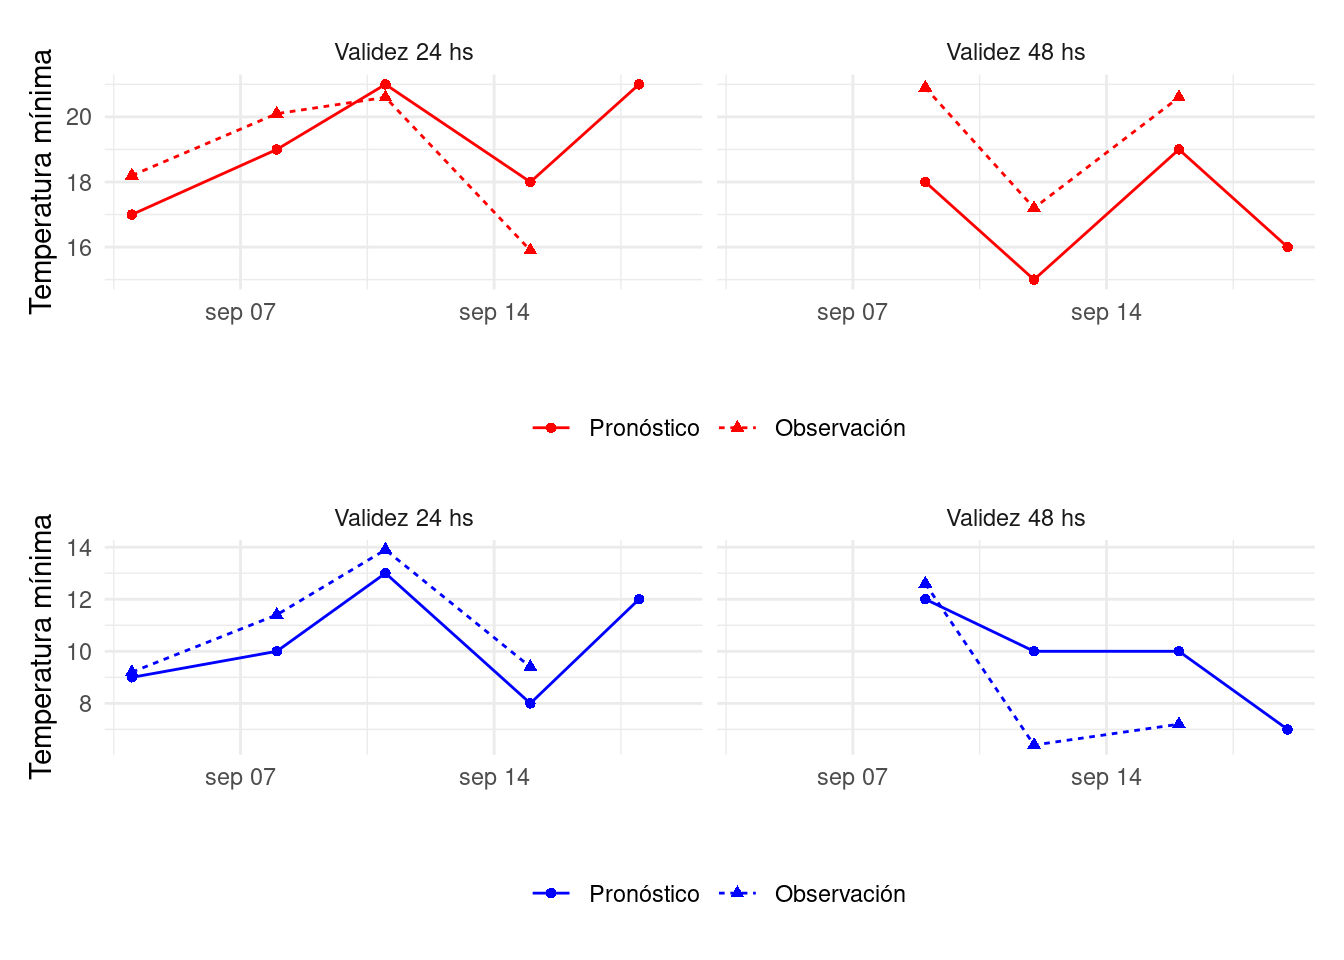
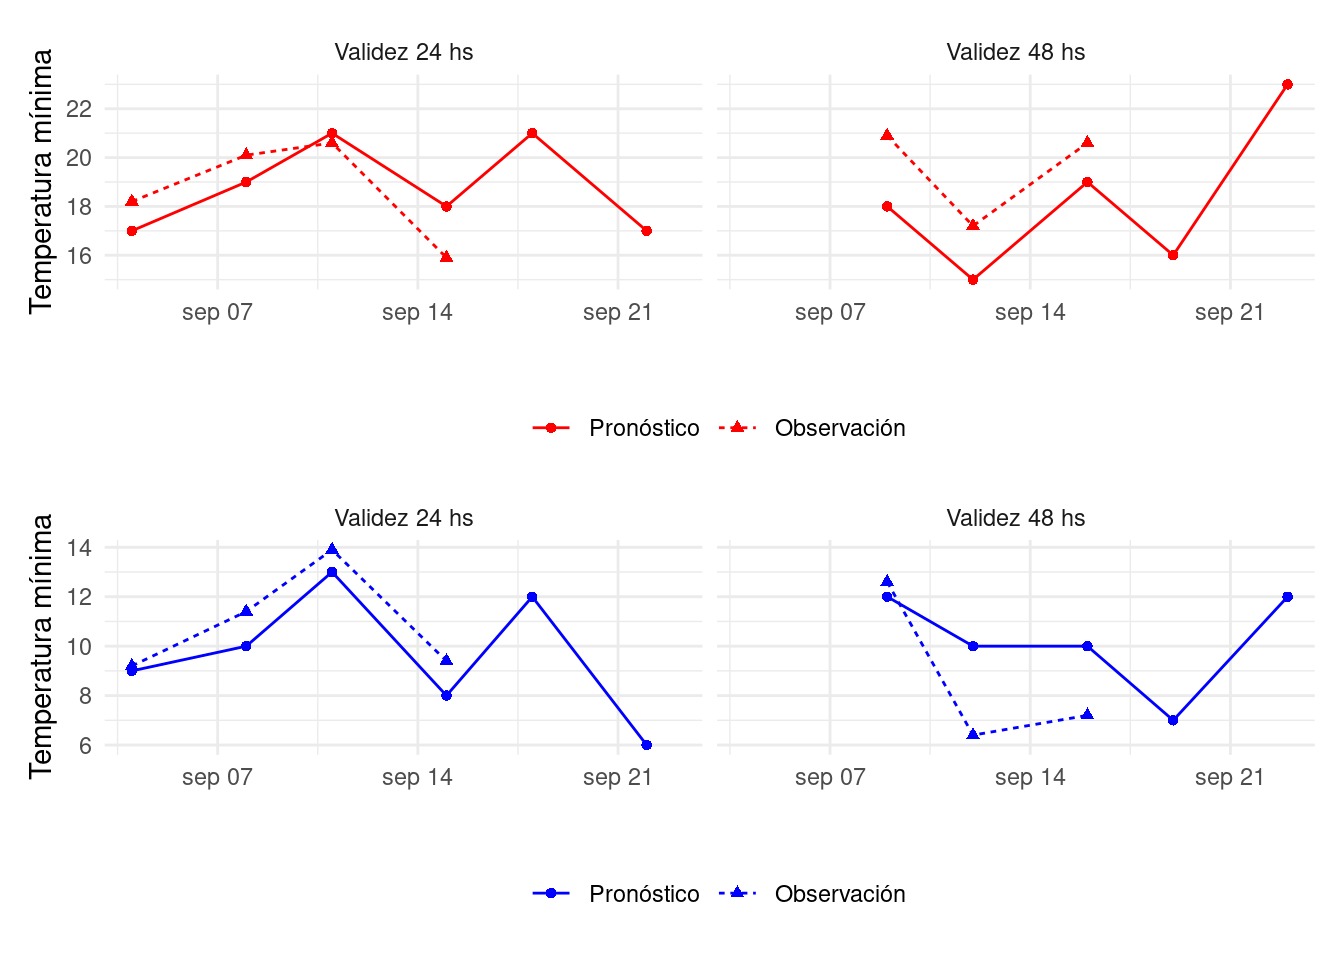
Build

diff --git a/docs/index.html b/docs/index.html
@@ -307,8 +307,8 @@ $(document).ready(function () {
 </div>
 
 
-<div id="análisis-del-día-17-de-septiembre-de-2020" class="section level2">
-<h2>Análisis del día 17 de septiembre de 2020</h2>
+<div id="análisis-del-día-21-de-septiembre-de-2020" class="section level2">
+<h2>Análisis del día 21 de septiembre de 2020</h2>
 <div id="ciudad-de-buenos-aires" class="section level3">
 <h3>Ciudad de Buenos Aires</h3>
 <table class="table table-responsive" style="margin-left: auto; margin-right: auto;">
@@ -339,48 +339,48 @@ Viento
 <tbody>
 <tr>
 <td style="text-align:left;">
-18/09/2020
+22/09/2020
 </td>
 <td style="text-align:left;max-width: 22em; ">
-Se espera buen tiempo con cielo despejado durante el día con precia de nubes altas durante la noche. Luego del pasaje del sistema frontal en horas previas dominará la presencia de aire seco y fresco y viento soplando del sector suodeste.
+Se espera un día fresco y parcialmente nublado con viento moderado predominante del sector NE. Se espera un leve aumento de la nubosidad por la tarde noche. Probabilidad de neblinas durante las primeras horas del día
 </td>
 <td style="text-align:center;color: red !important;">
-21 °
+17 °
+</td>
+<td style="text-align:center;color: blue !important;">
+6 °
+</td>
+<td style="text-align:center;max-width: 7em; ">
+Algo nublado a Parcialmente nublado
+</td>
+<td style="text-align:center;">
+NE
+</td>
+<td style="text-align:center;">
+<img src="img/parcialmente-nublado.png" width="60" />
+</td>
+</tr>
+<tr>
+<td style="text-align:left;">
+23/09/2020
+</td>
+<td style="text-align:left;max-width: 22em; ">
+Se espera buen tiempo con cielos algo nublados a despejados. El viento se mantendrá del sector norte generando un aumento de la temperatura y humedad respecto del día anterior.
+</td>
+<td style="text-align:center;color: red !important;">
+23 °
 </td>
 <td style="text-align:center;color: blue !important;">
 12 °
 </td>
 <td style="text-align:center;max-width: 7em; ">
-Algo nublado a Despejado
+Algo Nublado
 </td>
 <td style="text-align:center;">
-SO
+N
 </td>
 <td style="text-align:center;">
 <img src="img/algo-nublado.png" width="60" />
-</td>
-</tr>
-<tr>
-<td style="text-align:left;">
-19/09/2020
-</td>
-<td style="text-align:left;max-width: 22em; ">
-Se espera un día fresco y soleado. El viento se mantendrá del sector S generando una disminución de las temperaturas respecto del dia anterior.
-</td>
-<td style="text-align:center;color: red !important;">
-16 °
-</td>
-<td style="text-align:center;color: blue !important;">
-7 °
-</td>
-<td style="text-align:center;max-width: 7em; ">
-Despejado
-</td>
-<td style="text-align:center;">
-S-SO
-</td>
-<td style="text-align:center;">
-<img src="img/despejado.png" width="60" />
 </td>
 </tr>
 </tbody>
@@ -416,13 +416,36 @@ Viento
 <tbody>
 <tr>
 <td style="text-align:left;">
-18/09/2020
+22/09/2020
 </td>
 <td style="text-align:left;max-width: 22em; ">
-Se espera un día con cielo despejado y viento leve del sector norte-noroeste. Importante aplitud térmica con mínima de 5 y máxima de 29 grados.
+Se espera un día con cielo despejado y viento del sector E. La temperatura mínima será muy fría y la máxima podría alcanzar los 26°C
 </td>
 <td style="text-align:center;color: red !important;">
-29 °
+26 °
+</td>
+<td style="text-align:center;color: blue !important;">
+2 °
+</td>
+<td style="text-align:center;max-width: 7em; ">
+Despejado
+</td>
+<td style="text-align:center;">
+E
+</td>
+<td style="text-align:center;">
+<img src="img/despejado.png" width="60" />
+</td>
+</tr>
+<tr>
+<td style="text-align:left;">
+23/09/2020
+</td>
+<td style="text-align:left;max-width: 22em; ">
+Se espera buen tiempo con cielo despejado durante el día y con algo de nubosidad hacia la tarde y noche. El viento predominante será del sector NE durante la madrugada rotando al E durante el día.
+</td>
+<td style="text-align:center;color: red !important;">
+30 °
 </td>
 <td style="text-align:center;color: blue !important;">
 5 °
@@ -437,18 +460,72 @@ NE
 <img src="img/despejado.png" width="60" />
 </td>
 </tr>
+</tbody>
+</table>
+</div>
+<div id="córdoba-aero" class="section level3">
+<h3>Córdoba Aero</h3>
+<table class="table table-responsive" style="margin-left: auto; margin-right: auto;">
+<thead>
+<tr>
+<th style="text-align:left;">
+Fecha
+</th>
+<th style="text-align:left;">
+Pronóstico
+</th>
+<th style="text-align:center;">
+T máxima
+</th>
+<th style="text-align:center;">
+T mínima
+</th>
+<th style="text-align:center;">
+Nubosidad
+</th>
+<th style="text-align:center;">
+Viento
+</th>
+<th style="text-align:center;">
+</th>
+</tr>
+</thead>
+<tbody>
 <tr>
 <td style="text-align:left;">
-19/09/2020
+22/09/2020
 </td>
 <td style="text-align:left;max-width: 22em; ">
-Se espera un día con cielo despejado durante la mañana y viento leve del sector norte-noroeste generando un aumento en la humedad. Por la tarde se espera un aumento de la nubosidad generando una disminución de la temperatura máxima respecto del día anterior.
+Se espera buen tiempo con cielos algo nublados a despejados durante el día. Vientos leves a moderados predominantes del NE.
 </td>
 <td style="text-align:center;color: red !important;">
-23 °
+26 °
 </td>
 <td style="text-align:center;color: blue !important;">
-6 °
+5 °
+</td>
+<td style="text-align:center;max-width: 7em; ">
+Algo nublado
+</td>
+<td style="text-align:center;">
+NE
+</td>
+<td style="text-align:center;">
+<img src="img/algo-nublado.png" width="60" />
+</td>
+</tr>
+<tr>
+<td style="text-align:left;">
+23/09/2020
+</td>
+<td style="text-align:left;max-width: 22em; ">
+Se espera buen tiempo con nubosiadad en aumento. Vientos leves a modereados del sector N.
+</td>
+<td style="text-align:center;color: red !important;">
+26 °
+</td>
+<td style="text-align:center;color: blue !important;">
+8 °
 </td>
 <td style="text-align:center;max-width: 7em; ">
 Mayormente nublado
@@ -462,11 +539,7 @@ NE
 </tr>
 </tbody>
 </table>
-</div>
-<div id="córdoba-aero" class="section level3">
-<h3>Córdoba Aero</h3>
-<p>Muy pronto</p>
-<p>Disclaimer: ¿Llegaste de casualidad a esta página y pensas que encontraste un buen pronóstico? Pues no, los pronósticos que vez acá forman parte de la práctica de la materia Pronóstico del tiempo, a.k.a. estoy aprendiendo y posiblemente le pifie feo. Además la página se va a actualizar solo hasta el 15 de octubre de 2020.</p>
+<p><strong>Disclaimer:</strong> ¿Llegaste de casualidad a esta página y pensas que encontraste un buen pronóstico? Pues no, los pronósticos que vez acá forman parte de la práctica de la materia Pronóstico del tiempo, a.k.a. estoy aprendiendo y posiblemente le pifie feo. Además la página se va a actualizar solo hasta el 15 de octubre de 2020.</p>
 <p>Los iconos fueron extraidos del <a href="https://www.smn.gob.ar/">Servicio Meteorológico Nacional</a></p>
 </div>
 </div>
